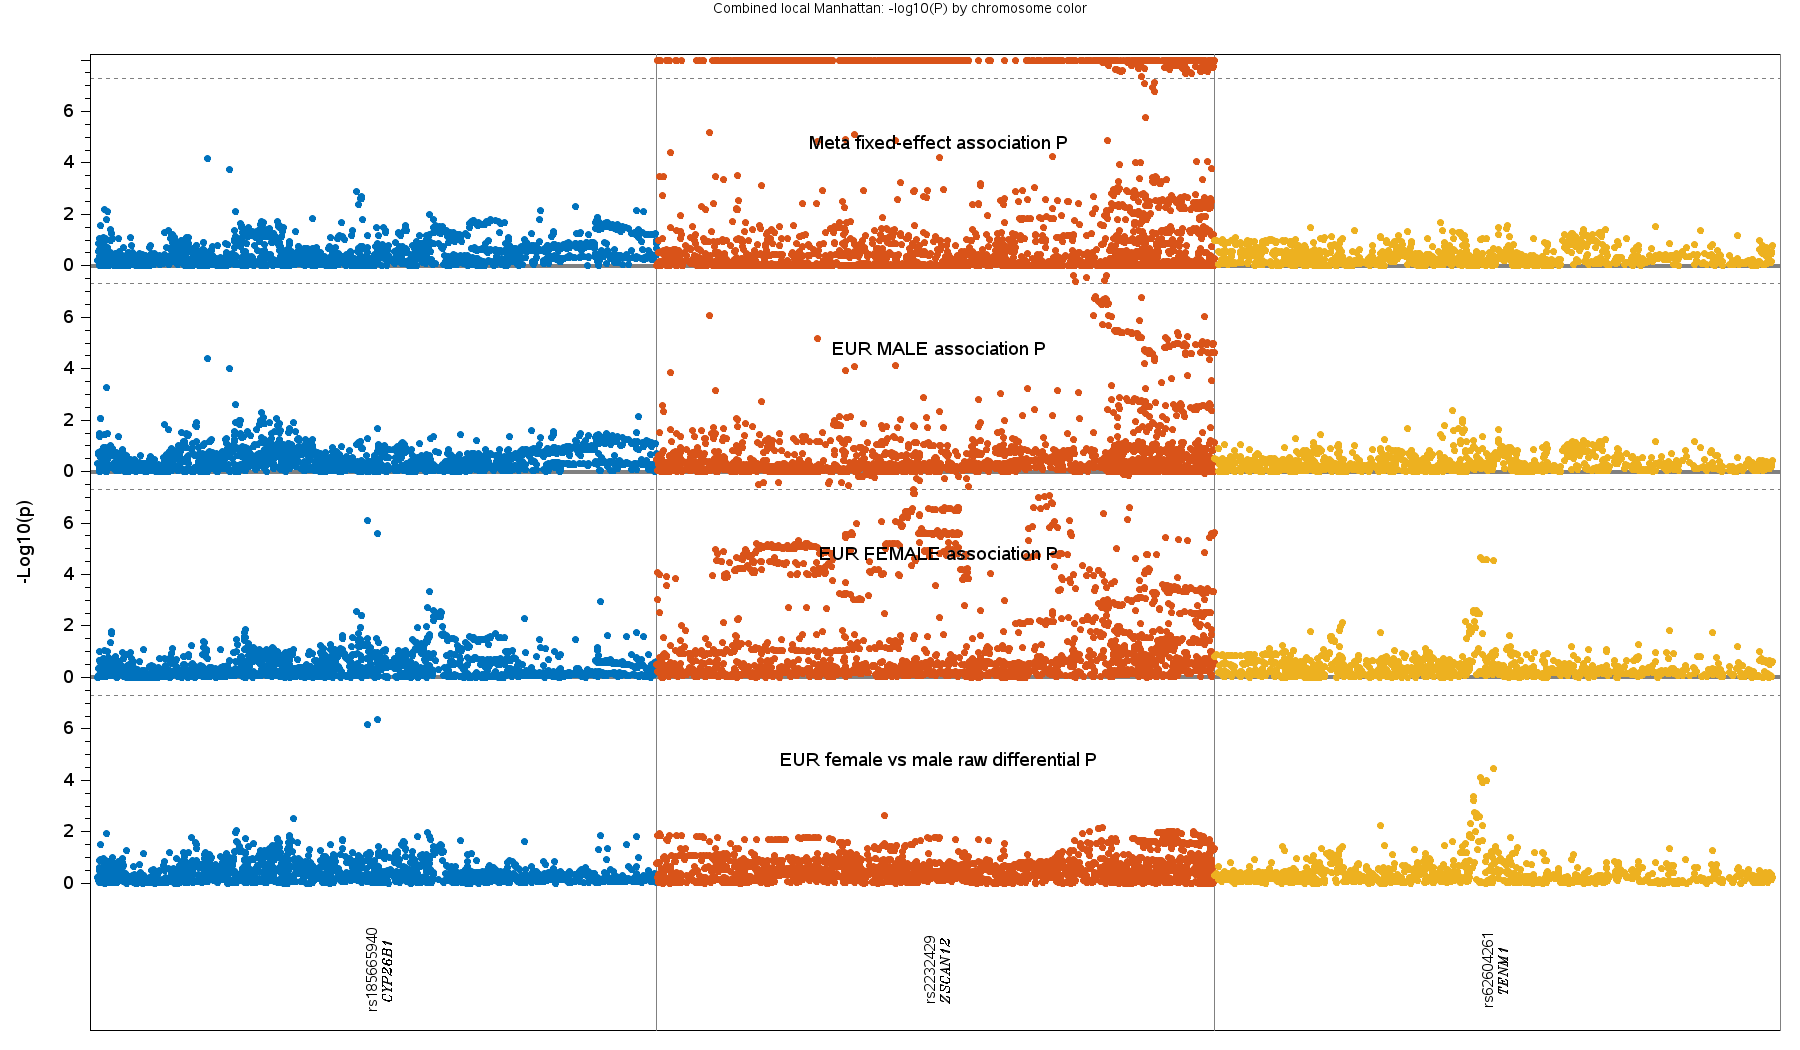
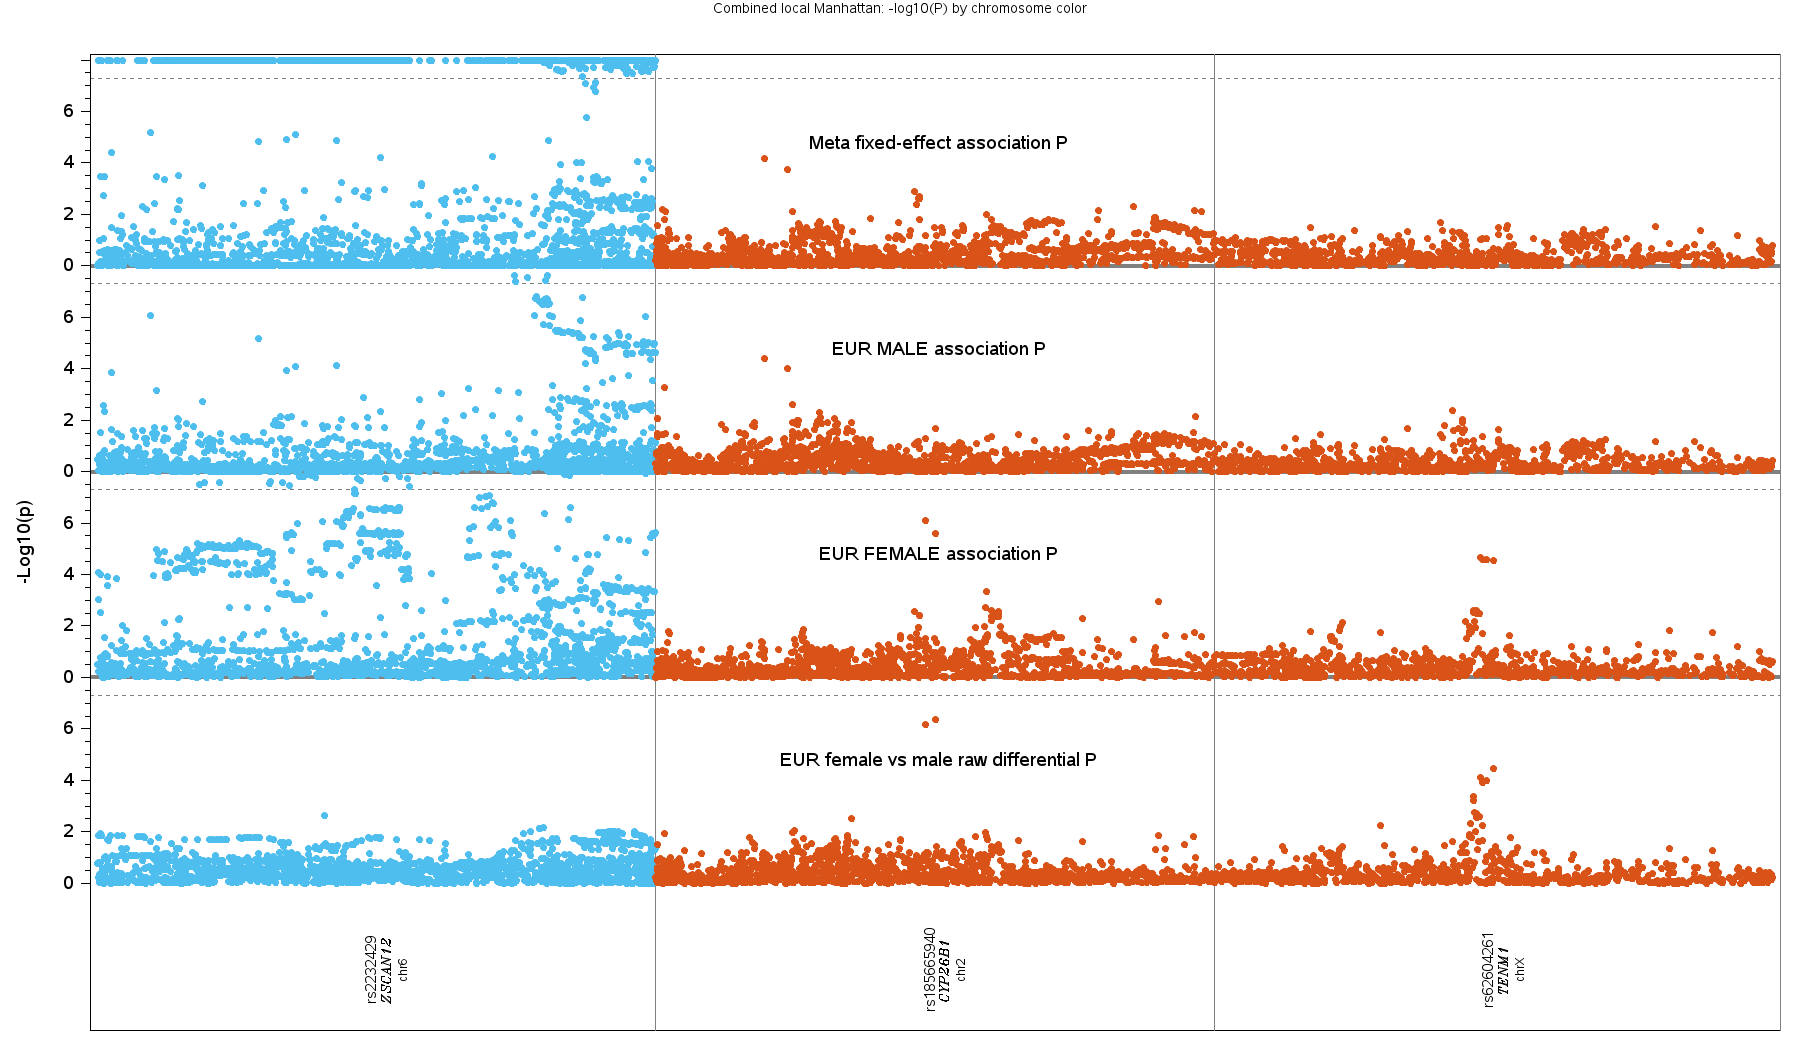
Keep chromosome colors consistent across Manhattan panels

diff --git a/MultiGWAS-Explorer/examples/public-scz-sex/results.html b/MultiGWAS-Explorer/examples/public-scz-sex/results.html
@@ -1,6 +1,6 @@
 <!doctype html><html lang="en"><meta charset="utf-8"><meta name="viewport" content="width=device-width,initial-scale=1"><title>Public schizophrenia GWAS by sex: plots</title><style>body{font:16px/1.5 system-ui,sans-serif;max-width:1280px;margin:0 auto;padding:1rem 1.5rem;color:#202124}nav{margin-bottom:2rem}figure{box-sizing:border-box;margin:1.5rem auto 2.5rem;padding:1rem;border:1px solid #ddd;border-radius:8px;background:#fff}figure.manhattan{max-width:1250px}figure.local_manhattan{max-width:1150px}figure.local_gtf{max-width:1000px}figure.forest{max-width:900px}figure img{display:block;max-width:100%;height:auto;margin:.7rem auto 0}figcaption{font-size:1.05rem}a{color:#1155a0}</style><h1>Public schizophrenia GWAS by sex</h1><nav><a href="#sas">SAS ODA figures</a> | <a href="#gnuplot">gnuplot figures</a></nav><p>Association height is -log10(P). Z-score and signed-LD labels describe point color. Click any figure for its full-resolution PNG.</p><h2 id="sas">SAS ODA</h2>
 <figure class="manhattan"><figcaption><strong>SAS ODA: Genome-wide Manhattan</strong></figcaption><a href="figures/sas/PUBLIC_SCZ_EUR_SEX_SAS_manhattan.png"><img loading="lazy" src="figures/sas/PUBLIC_SCZ_EUR_SEX_SAS_manhattan.png" alt="SAS ODA: Genome-wide Manhattan"></a></figure>
-<figure class="local_manhattan"><figcaption><strong>SAS ODA: Local Manhattan, chromosome colors</strong></figcaption><a href="figures/sas/PUBLIC_SCZ_EUR_SEX_SAS_local_top_hits_manhattan.png"><img loading="lazy" src="figures/sas/PUBLIC_SCZ_EUR_SEX_SAS_local_top_hits_manhattan.png" alt="SAS ODA: Local Manhattan, chromosome colors"></a></figure>
+<figure class="local_manhattan"><figcaption><strong>SAS ODA: Local Manhattan, chromosome colors matched to genome-wide</strong></figcaption><a href="figures/sas/PUBLIC_SCZ_EUR_SEX_SAS_local_top_hits_manhattan.png"><img loading="lazy" src="figures/sas/PUBLIC_SCZ_EUR_SEX_SAS_local_top_hits_manhattan.png" alt="SAS ODA: Local Manhattan, chromosome colors matched to genome-wide"></a></figure>
 <figure class="local_gtf"><figcaption><strong>SAS ODA: Local Manhattan and gene tracks, signed LD r^2 x sign(Z) (rs185665940)</strong></figcaption><a href="figures/sas/PUBLIC_SCZ_EUR_SEX_SAS_local_top_hits_with_gtf_rs185665940.png"><img loading="lazy" src="figures/sas/PUBLIC_SCZ_EUR_SEX_SAS_local_top_hits_with_gtf_rs185665940.png" alt="SAS ODA: Local Manhattan and gene tracks, signed LD r^2 x sign(Z) (rs185665940)"></a></figure>
 <figure class="local_gtf"><figcaption><strong>SAS ODA: Local Manhattan and gene tracks, signed LD r^2 x sign(Z) (rs2232429)</strong></figcaption><a href="figures/sas/PUBLIC_SCZ_EUR_SEX_SAS_local_top_hits_with_gtf_rs2232429.png"><img loading="lazy" src="figures/sas/PUBLIC_SCZ_EUR_SEX_SAS_local_top_hits_with_gtf_rs2232429.png" alt="SAS ODA: Local Manhattan and gene tracks, signed LD r^2 x sign(Z) (rs2232429)"></a></figure>
 <figure class="local_gtf"><figcaption><strong>SAS ODA: Local Manhattan and gene tracks, signed LD r^2 x sign(Z) (rs62604261)</strong></figcaption><a href="figures/sas/PUBLIC_SCZ_EUR_SEX_SAS_local_top_hits_with_gtf_rs62604261.png"><img loading="lazy" src="figures/sas/PUBLIC_SCZ_EUR_SEX_SAS_local_top_hits_with_gtf_rs62604261.png" alt="SAS ODA: Local Manhattan and gene tracks, signed LD r^2 x sign(Z) (rs62604261)"></a></figure>

diff --git a/README.md b/README.md
@@ -74,7 +74,7 @@ portable-Cygwin validation of the sex-stratified schizophrenia GWAS. Inquiry
 targets are `rs2232429` (common association), `rs185665940` (autosomal
 differential signal), and `rs62604261` (chromosome-X differential signal).
 
-The local Manhattan panels show -log10(P) by Z-score color in gnuplot and by chromosome color in SAS. Gene-track panels use signed LD r² × sign(Z) from the EUR 1000 Genomes Phase 3 reference. Each figure opens at full resolution when clicked.
+The local Manhattan panels show -log10(P) by Z-score color in gnuplot and by chromosome color in SAS. In SAS, a chromosome retains its genome-wide color across every local panel. Gene-track panels use signed LD r² × sign(Z) from the EUR 1000 Genomes Phase 3 reference. Each figure opens at full resolution when clicked.
 
 #### SAS OnDemand for Academics outputs
 
@@ -82,9 +82,9 @@ The local Manhattan panels show -log10(P) by Z-score color in gnuplot and by chr
 
 <a href="MultiGWAS-Explorer/examples/public-scz-sex/figures/sas/PUBLIC_SCZ_EUR_SEX_SAS_manhattan.png"><img src="MultiGWAS-Explorer/examples/public-scz-sex/figures/sas/PUBLIC_SCZ_EUR_SEX_SAS_manhattan.png" alt="Genome-wide Manhattan: chromosome-colored association P" width="1100"></a>
 
-**Local Manhattan: chromosome colors**
+**Local Manhattan: chromosome colors match the genome-wide plot**
 
-<a href="MultiGWAS-Explorer/examples/public-scz-sex/figures/sas/PUBLIC_SCZ_EUR_SEX_SAS_local_top_hits_manhattan.png"><img src="MultiGWAS-Explorer/examples/public-scz-sex/figures/sas/PUBLIC_SCZ_EUR_SEX_SAS_local_top_hits_manhattan.png" alt="Local Manhattan: chromosome colors" width="1000"></a>
+<a href="MultiGWAS-Explorer/examples/public-scz-sex/figures/sas/PUBLIC_SCZ_EUR_SEX_SAS_local_top_hits_manhattan.png"><img src="MultiGWAS-Explorer/examples/public-scz-sex/figures/sas/PUBLIC_SCZ_EUR_SEX_SAS_local_top_hits_manhattan.png" alt="Local Manhattan: chromosome colors match the genome-wide plot" width="1000"></a>
 
 **Local Manhattan with gene tracks: LD r² × sign(Z) — rs2232429**
 

diff --git a/MultiGWAS-Explorer/gwas-sas-oda-workflow/SKILL.md b/MultiGWAS-Explorer/gwas-sas-oda-workflow/SKILL.md
@@ -590,6 +590,12 @@ For a new project, copy/adapt the script templates in this skill's `scripts/` fo
 - For custom genome-wide Manhattan subsets, visually verify that the x-axis
   starts with `chr1` and does not contain a phantom pre-`chr1` block caused by
   unsorted rows or `CHR='X'` being imported as numeric missing `.` in SAS.
+- Compare chromosome-colored genome-wide and combined local Manhattan panels:
+  each chromosome must retain the same palette color across local batches.
+  Build SAS GPLOT symbol colors from actual chromosome values in displayed
+  group order, since symbol numbering restarts for each panel and can shift
+  when chromosomes are absent. Check chrX/23 explicitly. Do not apply this
+  check to local Z-score or signed-LD plots, whose colors encode those metrics.
 - For local GTF reruns, also verify the SAS log reports a non-zero exon count.
 - Keep LD rendering disabled unless the request explicitly asks for it. For an
   LD heatmap, preserve numeric HaploReg r2 values, use a sequential palette and
@@ -643,6 +649,9 @@ For a new project, copy/adapt the script templates in this skill's `scripts/` fo
   `--file` over inline `--code` for anything larger than the trivial
   `%put HELLO_FROM_ODA;` probe because shell quoting can silently truncate the
   SAS payload before submit.
+- In Cygwin upload runners, call `/usr/bin/timeout` explicitly. A bare
+  `timeout` can resolve to Windows `system32/timeout.exe` when PowerShell's
+  PATH is inherited, causing `TIMEOUT /?` syntax errors before SAS runs.
 
 ## References
 

diff --git a/MultiGWAS-Explorer/README4Debugging.md b/MultiGWAS-Explorer/README4Debugging.md
@@ -148,8 +148,18 @@ and removes its successful temporary SAS ODA files afterward.
    Verify the final HTML links resolve to nonempty files; open representative
    PNGs to inspect SNP/gene/chromosome labels, genes, signed-LD colorbar, and
    window boundaries.
+   For chromosome-colored Manhattan plots, compare the same chromosome in the
+   genome-wide and combined local panels, including later local batches and
+   chrX. The seven-color palette repeats by chromosome number (chr1 blue,
+   chr2 orange, ..., chrX orange), not by local panel position. Z-score and
+   signed-LD plots encode a different metric and should keep their colorbars.
 4. Keep the failed SAS diagnostic folders until the failure is explained. Clean
    only successful temporary folders after all output files have been checked.
+
+When a PowerShell-launched Cygwin run prints Windows `TIMEOUT /?` syntax errors
+before uploading the genome-wide subset, check which `timeout` executable the
+shell found. The genome-wide uploader uses `/usr/bin/timeout` explicitly so it
+cannot accidentally invoke `C:\WINDOWS\system32\timeout.exe`.
 
 The scientific rule is to preserve every SNP inside a local window, but to use
 the nominal-significance subset for the genome-wide Manhattan plot. The

diff --git a/MultiGWAS-Explorer/examples/public-scz-sex/README.md b/MultiGWAS-Explorer/examples/public-scz-sex/README.md
@@ -26,6 +26,9 @@ SHA-256 checksum of each copied image.
   controls marker symbols only. SAS local Manhattan panels use chromosome
   colors, while SAS GTF panels use signed LD colors. Plot captions and
   figure titles identify the color metric.
+- The October 2026 SAS local Manhattan refresh assigns every locus the same
+  chromosome color as the genome-wide SAS panel, including chromosome X. The
+  genome-wide figure was rerendered and matched the existing gallery checksum.
 
 The machine-readable row counts and targets are in `numeric_validation.json`
 and `targets.txt`. See the
